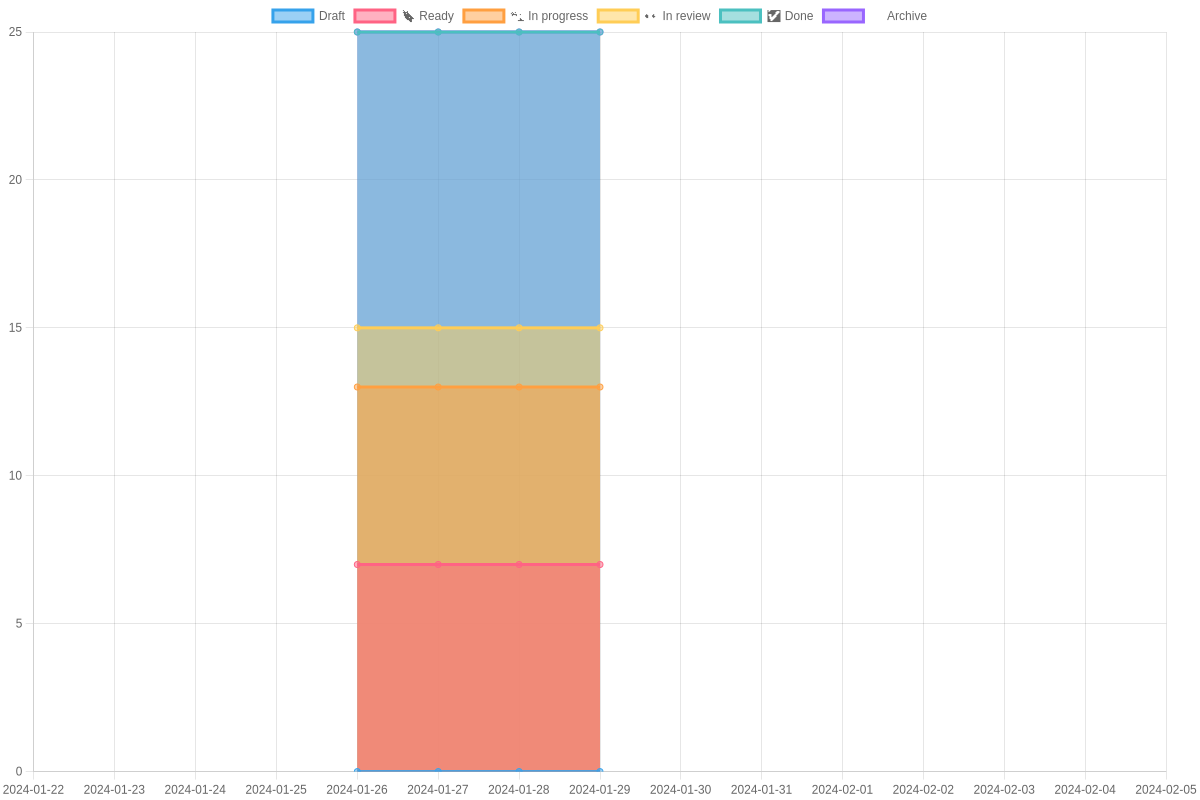
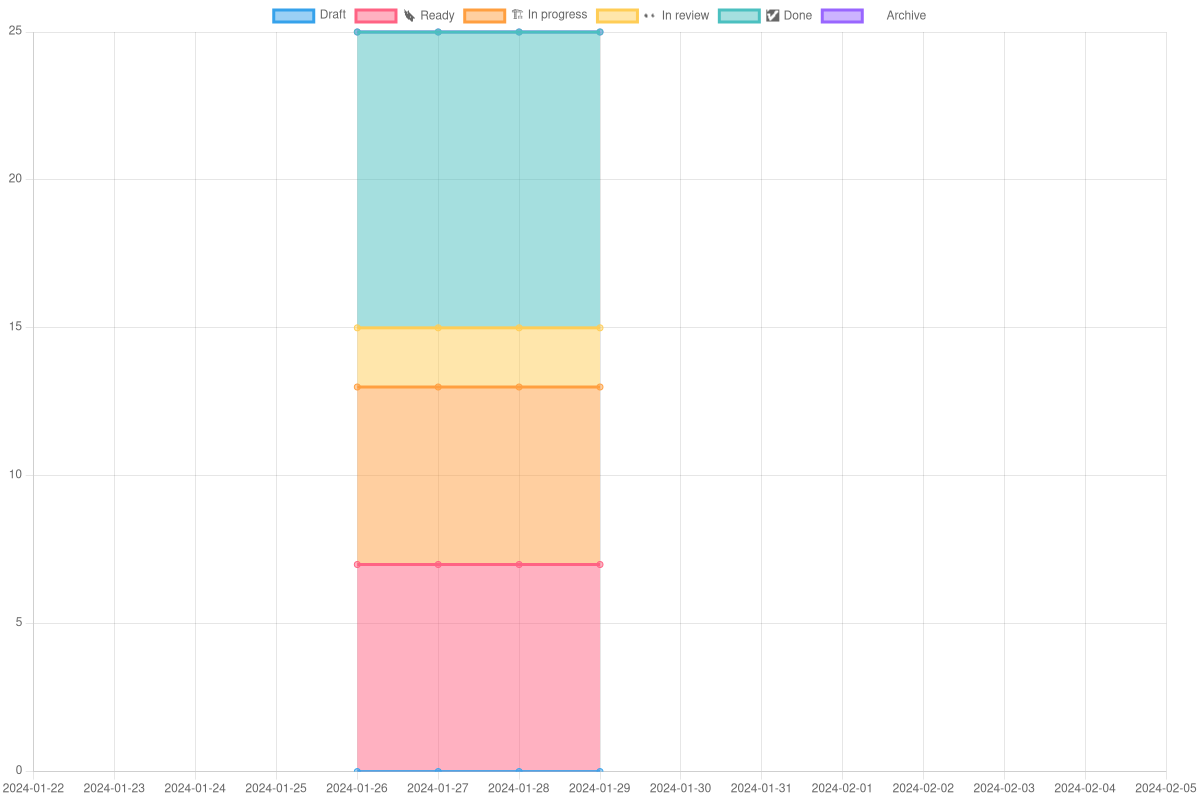
Update colors to fit legend

diff --git a/src/burn.ts b/src/burn.ts
@@ -1,4 +1,4 @@
-import { GraphDataset, render } from "./render"
+import { GraphDataset, GroupConfig, render } from "./render"
 import { Field, Iteration } from "./source"
 import { asDate, clean, readJsonFile, writeFile } from "./utils"
 
@@ -27,6 +27,6 @@ export const updateBurnDown = async (runId: string, stati: Field[], iteration: I
       type: "line",
       path: `stats/${name}/`,
       name: `${team}_burn_down`,
-      stacked: true,
+      stacked: true
     })
 }

diff --git a/src/render.ts b/src/render.ts
@@ -4,7 +4,7 @@ import fs from "fs";
 import { writeFile } from "./utils";
 
 export interface GroupConfig {
-  fill?: boolean;
+  fill?: boolean | string;
   backgroundColor?: string;
 }
 
@@ -47,7 +47,7 @@ const generatePNG = (
     data: {
       labels,
       datasets: datasets.map((ds) => ({
-        fill: true,
+        fill: "-1",
         ...ds,
         ...config.groupConfigs?.get(ds.label),
       })),
